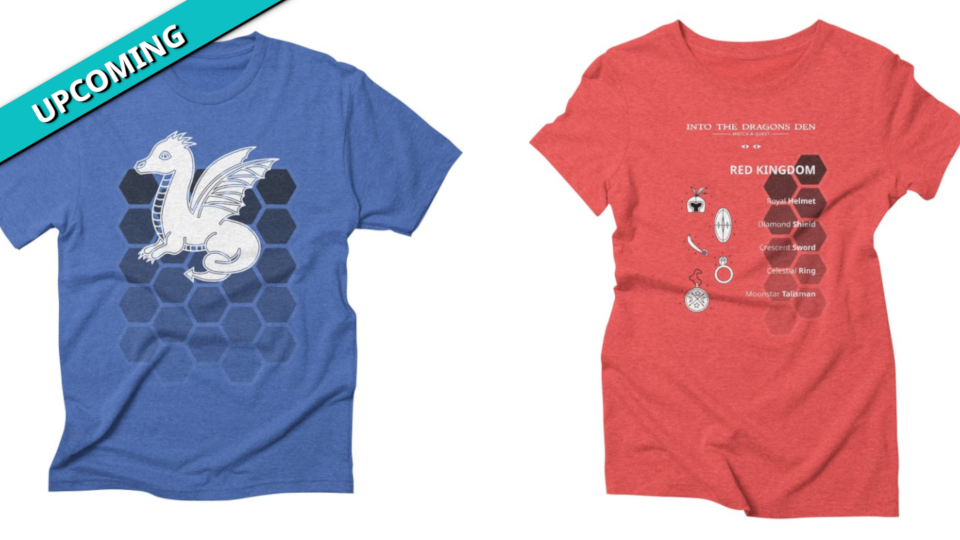
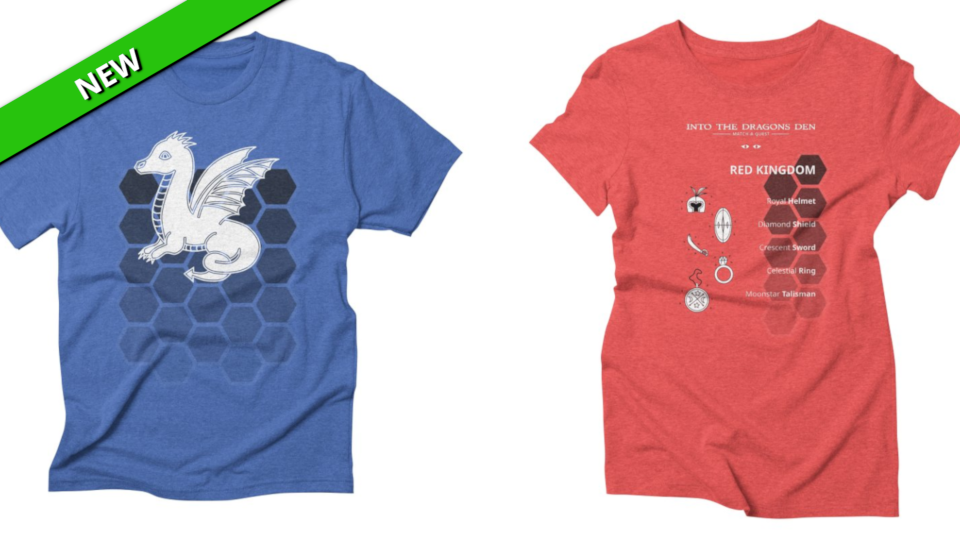
Updated Into The Dragons Den Shirts to "NEW".

Changed region(s): [[0.0, 0.0, 0.2812, 0.2963]]

diff --git a/_merchandise/ShirtsIntoTheDragonsDen.md b/_merchandise/ShirtsIntoTheDragonsDen.md
@@ -3,7 +3,7 @@ layout: project
 title: Into The Dragons Den
 caption: Shirts
 description: >
-  **Into The Dragons Den \| Match-A-Quest** shirts will be available to purchase soon!
+  **Into The Dragons Den \| Match-A-Quest** shirts available for purchase!
 date: 8 May 2021
 image: 
   path: /assets/img/merchandise/shirts/shirts_IntoTheDragonsDen.png
@@ -18,31 +18,41 @@ image:
 
 A collection of **Into The Dragons Den \| Match-A-Quest** shirts for men, women and kids!
 
-## Get One Soon
-
-<!-- Use the links below to get your very own **Into The Dragons Den \| Match-A-Quest** shirt!
-
+## Get One Now
+ 
+Use the links below to get your very own **Into The Dragons Den \| Match-A-Quest** shirt!
 
 [![Into The Dragons Den / Dragon Shirt]({{ site.baseurl }}/assets/img/merchandise/shirts/shirtDragonBW.png "Into The Dragons Den / Dragon Shirt")](https://receptorcell.threadless.com/designs/into-the-dragons-den-dragon-b-w/mens/t-shirt/triblend){:target="_blank" : .no-mark}
 
 [**Into The Dragons Den / Dragon Shirt** (Mens\|Womens\|Kids)](https://receptorcell.threadless.com/designs/into-the-dragons-den-dragon-b-w/mens/t-shirt/triblend){:target="_blank"}
-  
+
+&nbsp;
 
 [![Into The Dragons Den / Red Kingdom Shirt]({{ site.baseurl }}/assets/img/merchandise/shirts/shirtKingdomRedBW.png "Into The Dragons Den / Red Kingdom Shirt")](https://receptorcell.threadless.com/designs/into-the-dragons-den-red-kingdom-b-w/womens/t-shirt/triblend){:target="_blank" : .no-mark}
 
 [**Into The Dragons Den / Red Kingdom Shirt** (Mens\|Womens\|Kids)](https://receptorcell.threadless.com/designs/into-the-dragons-den-red-kingdom-b-w/womens/t-shirt/triblend){:target="_blank"}
 
+&nbsp;
 
 [![Into The Dragons Den / Green Kingdom Shirt]({{ site.baseurl }}/assets/img/merchandise/shirts/shirtKingdomGreenBW.png "Into The Dragons Den / Green Kingdom Shirt")](https://receptorcell.threadless.com/designs/into-the-dragons-den-green-kingdom-b-w/mens/t-shirt/triblend){:target="_blank" : .no-mark}
 
 [**Into The Dragons Den / Green Kingdom Shirt** (Mens\|Womens\|Kids)](https://receptorcell.threadless.com/designs/into-the-dragons-den-green-kingdom-b-w/mens/t-shirt/triblend){:target="_blank"}
 
+&nbsp;
 
 [![Into The Dragons Den / Blue Kingdom Shirt]({{ site.baseurl }}/assets/img/merchandise/shirts/shirtKingdomBlueBW.png "Into The Dragons Den / Blue Kingdom Shirt")](https://receptorcell.threadless.com/designs/into-the-dragons-den-blue-kingdom-b-w/womens/t-shirt/triblend){:target="_blank" : .no-mark}
 
 [**Into The Dragons Den / Blue Kingdom Shirt** (Mens\|Womens\|Kids)](https://receptorcell.threadless.com/designs/into-the-dragons-den-blue-kingdom-b-w/womens/t-shirt/triblend){:target="_blank"}
 
+&nbsp;
 
 [![Into The Dragons Den / Black Kingdom Shirt]({{ site.baseurl }}/assets/img/merchandise/shirts/shirtKingdomBlackBW.png "Into The Dragons Den / Black Kingdom Shirt")](https://receptorcell.threadless.com/designs/into-the-dragons-den-black-kingdom-b-w/mens/t-shirt/triblend){:target="_blank" : .no-mark}
 
-[**Into The Dragons Den / Black Kingdom Shirt** (Mens\|Womens\|Kids)](https://receptorcell.threadless.com/designs/into-the-dragons-den-black-kingdom-b-w/mens/t-shirt/triblend){:target="_blank"} -->
+[**Into The Dragons Den / Black Kingdom Shirt** (Mens\|Womens\|Kids)](https://receptorcell.threadless.com/designs/into-the-dragons-den-black-kingdom-b-w/mens/t-shirt/triblend){:target="_blank"}
+
+&nbsp;
+
+*Shirts are produced and shipped by [threadless](https://www.threadless.com){:target="_blank"}*
+
+[![threadless]({{ site.baseurl }}/assets/img/tools/threadless.png "threadless")](https://www.threadless.com){:target="_blank" : .no-mark}
+
